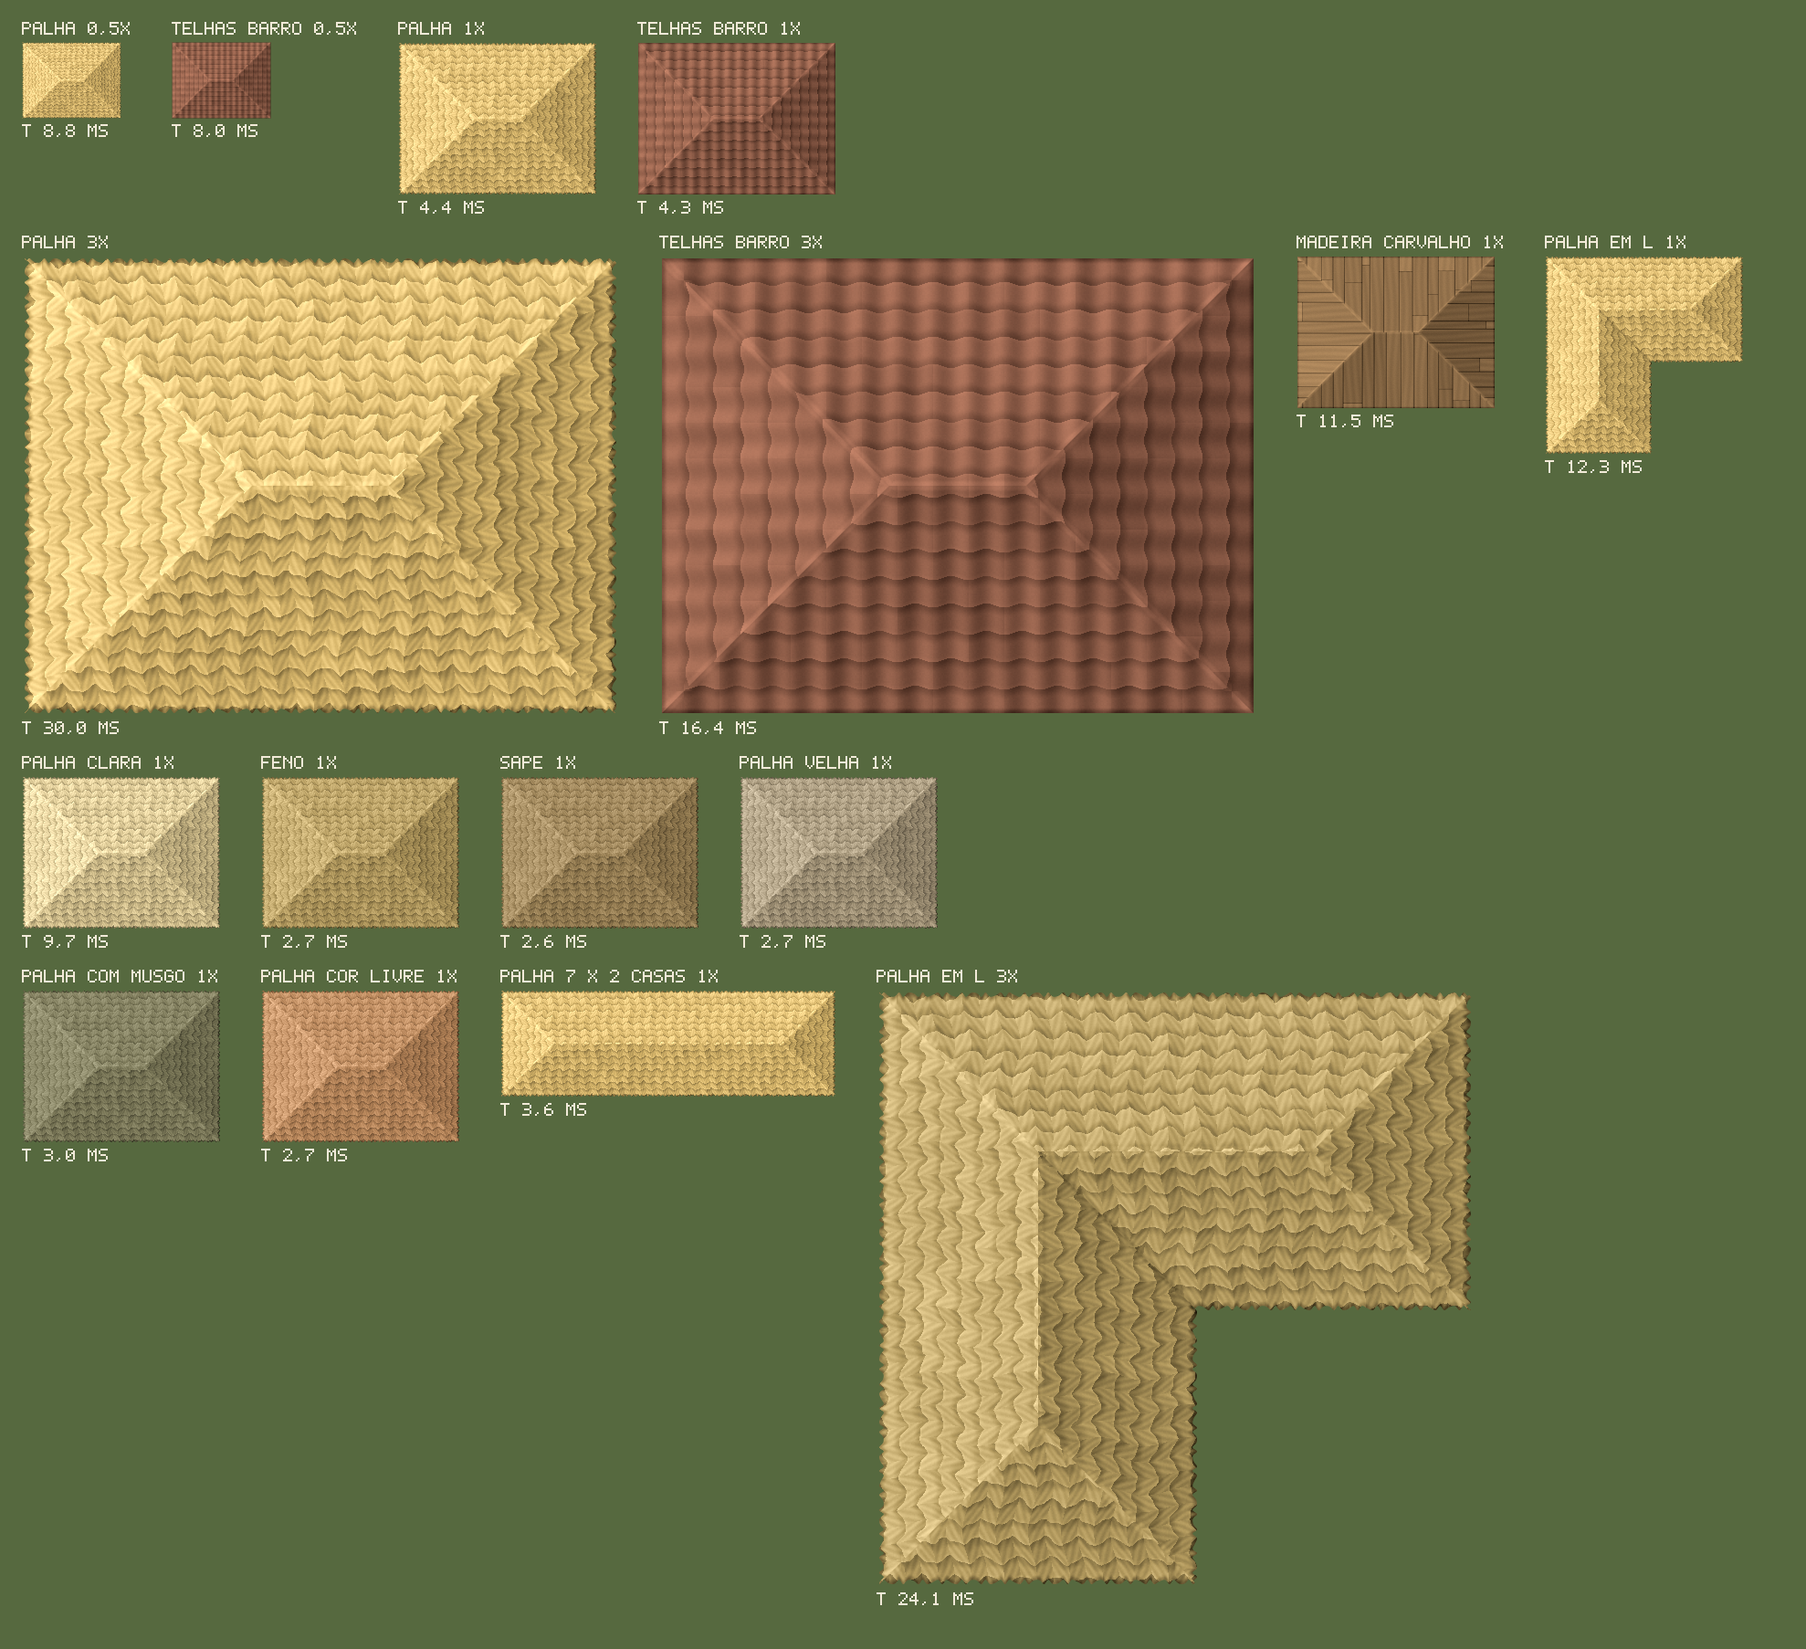
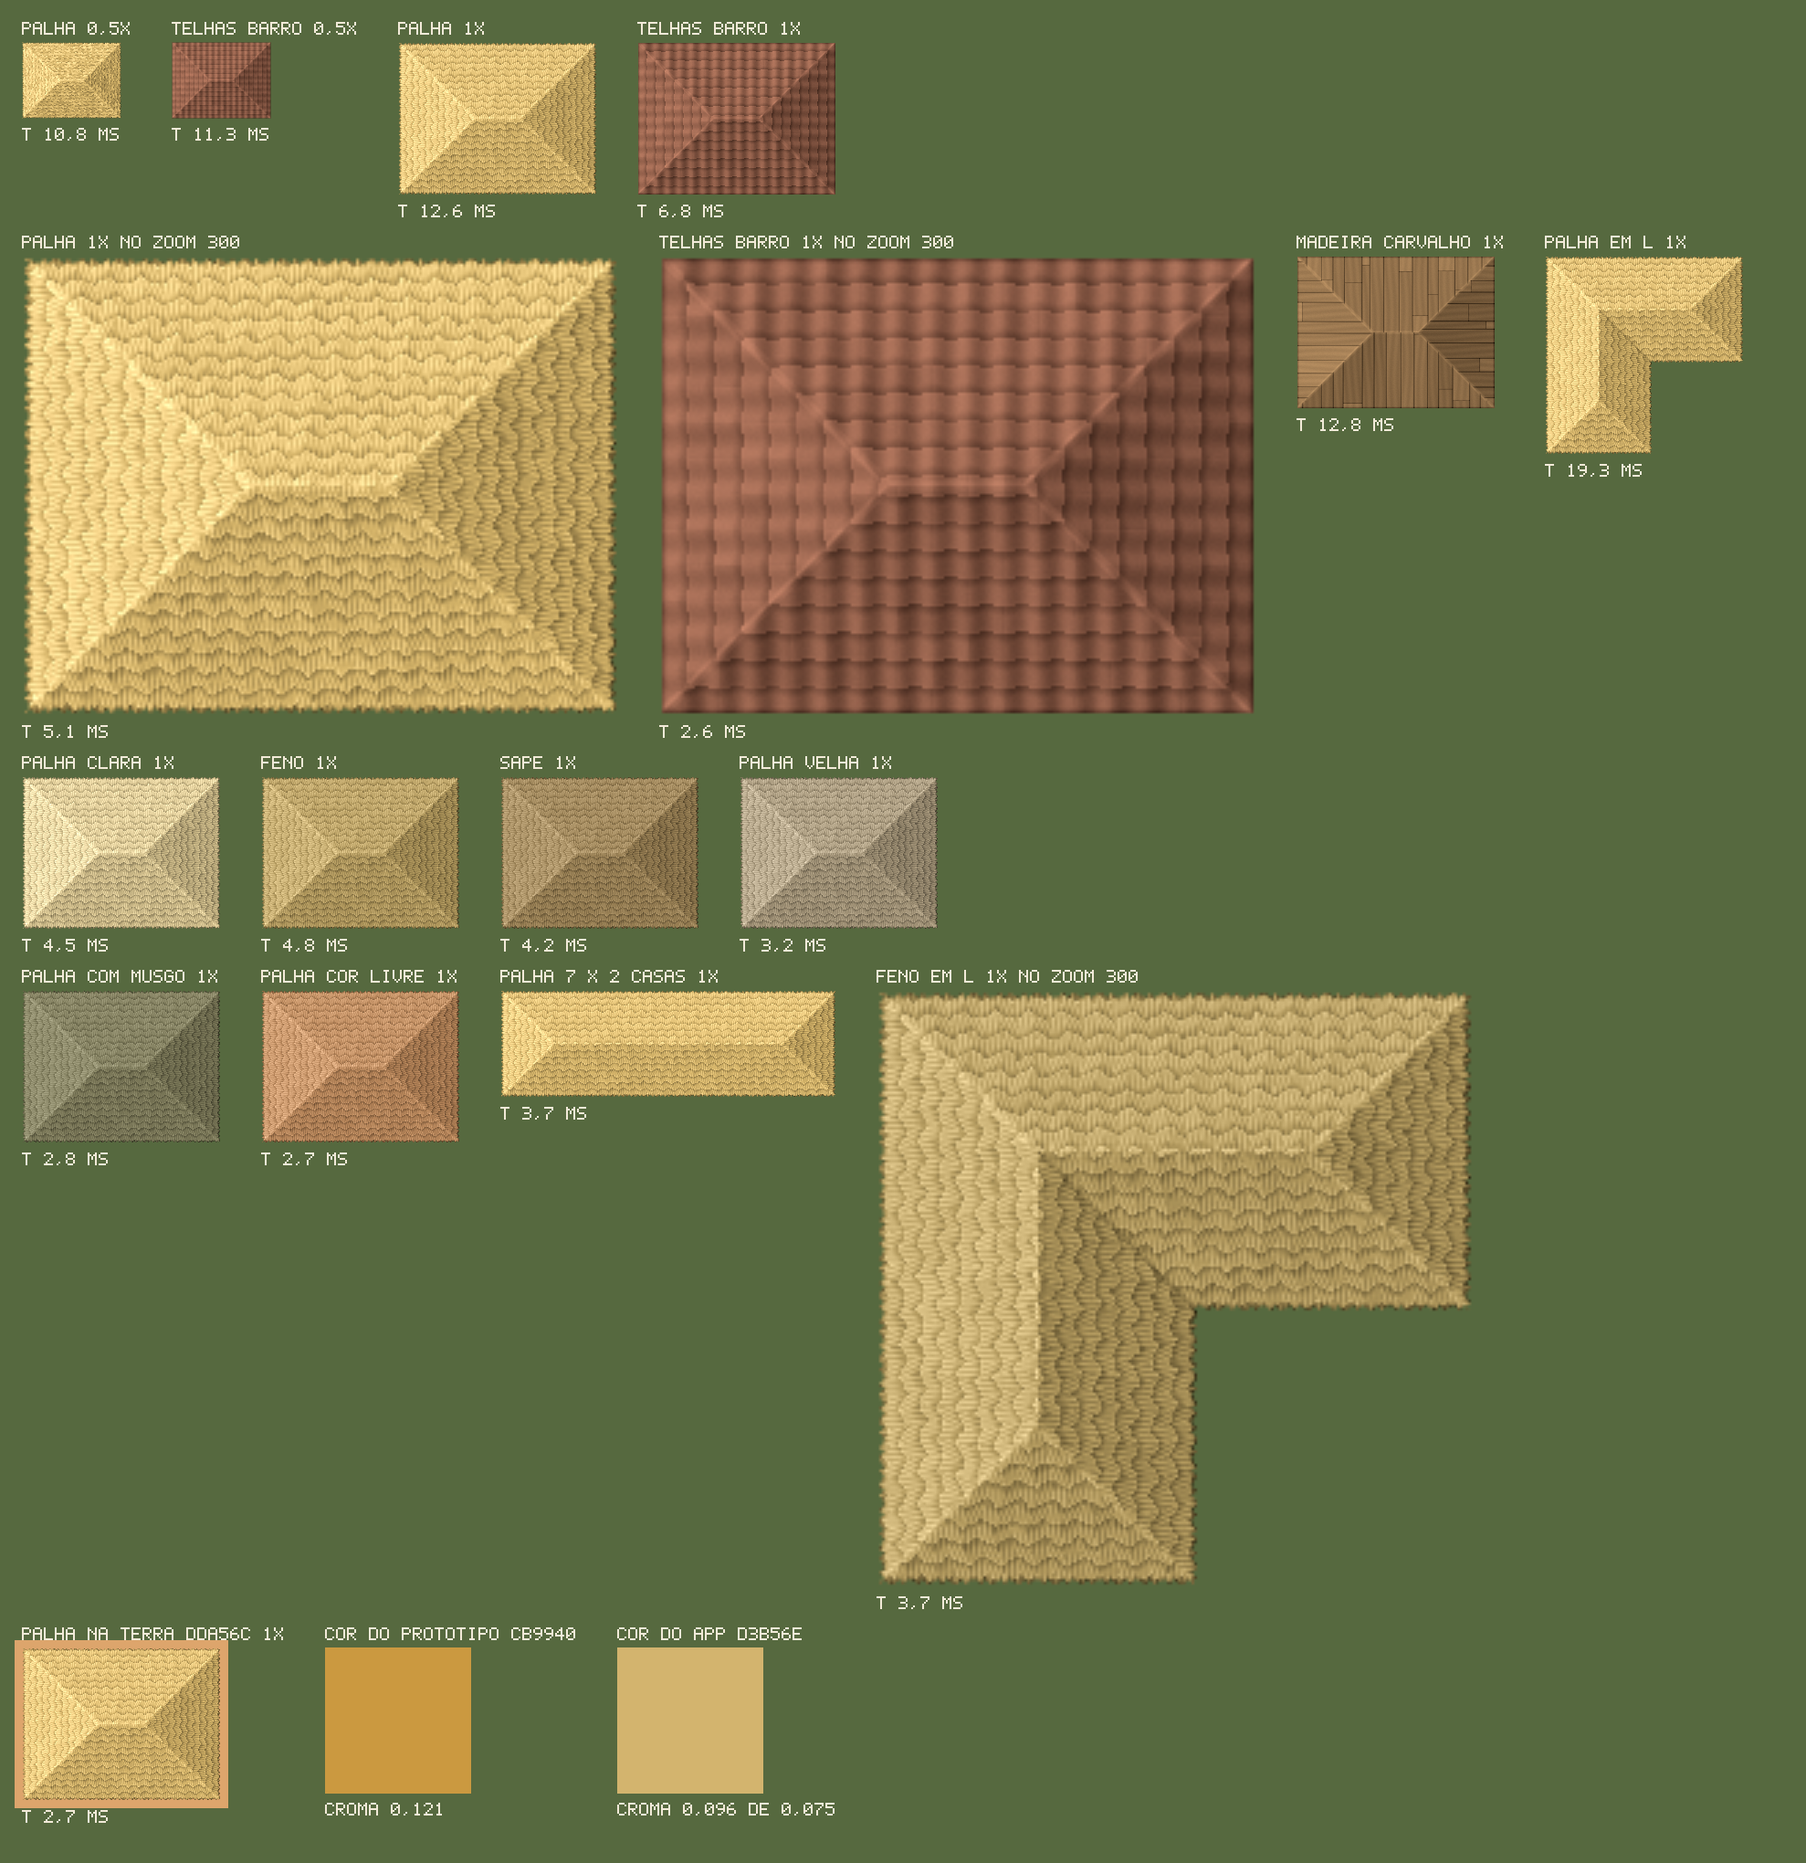
test(telhado): sweep thatch rooms above 1 M px; contact sheet with the 300% zoom and colour swatches
- The 1000-room sweep only drew rooms up to 10x8 cells (always 1x). 60 big
  rooms (1100-2200 x 950-1700 px) now go through the app scale below 1x
  (0.53x to <1x): worst saturation p95 0.526, chroma p95 0.1016.
- Contact sheet: the 3x frames (the app never paints a roof above 1x) are
  replaced by the 1x texture magnified 3 times with linear filtering, as the
  user sees it at 300% zoom; thatch on the Meio-Termo dirt floor; prototype
  vs app average colour side by side (chroma 0.121 vs 0.096, dE 0.075).

diff --git a/client/src/texturas/folhaDeContatoMt6.test.ts b/client/src/texturas/folhaDeContatoMt6.test.ts
@@ -2,17 +2,23 @@ import { writeFileSync } from 'node:fs'
 import { expect, it } from 'vitest'
 import type { PontoDoTelhado } from '../lib/telhado/aguas'
 import { PALETA_DO_TETO, type ModeloDoTeto } from '../lib/telhado/paletas'
-import { pintarTelhado } from './telhado'
-import { colar, emPng, escrever, novaTela } from './meioTermo/moveis/folhaDeContato.testkit'
+import { pintarTelhado, type ImagemDoTelhado } from './telhado'
+import { oklabDoHex, oklabDoRgb } from './meioTermo/materiais'
+import { PALETA_MEIO_TERMO } from './meioTermo/paleta'
+import { colar, emPng, escrever, novaTela, type Tela } from './meioTermo/moveis/folhaDeContato.testkit'
 
 /**
- * FOLHA DE CONTATO da fatia MT6: o telhado de palha em 3 escalas da textura
- * (0,5x, 1x e 3x pixels por px do mapa) AO LADO da telha barro na mesma
- * escala, a madeira para comparar, as 6 cores da palha, a sala em L, uma cor
- * livre e uma sala comprida. Fundo: a grama do mapa (#56693f), onde o telhado
- * mora. Embaixo de cada quadro, o tempo de pintar a imagem (ms, nesta máquina e
- * nesta rodada, uma medida só). O app pinta a textura a 1x (ou menos, em sala
- * enorme) e a câmera amplia; a 3x aqui é o detalhe que a imagem teria.
+ * FOLHA DE CONTATO da fatia MT6 (refeita na revisão de design): o telhado de
+ * palha a 0,5x e 1x AO LADO da telha barro na mesma escala, e a 1x AMPLIADA 3
+ * vezes como o usuário vê no zoom de 300% (o app nunca pinta telhado acima de
+ * 1x, `pixi/telhadosRenderer.ts`, `escalaDaTexturaDoTelhado`: a câmera amplia
+ * a imagem de 1x, com filtro linear; o quadro de "3x" que havia aqui mostrava
+ * um detalhe que ninguém vê). Mais a madeira, as 6 cores, a sala em L, a cor
+ * livre, a sala comprida, a palha no chão de TERRA do Meio-Termo (o par mais
+ * fraco) e, lado a lado, a cor média do protótipo aprovado e a do app, com o
+ * croma OKLab e a distância entre elas. Fundo: a grama do mapa (#56693f).
+ * Embaixo de cada quadro de telhado, o tempo de pintar a imagem (ms, nesta
+ * máquina e nesta rodada, uma medida só).
  * Grava `docs/design/objetos/provas/mt6-folha-de-contato.png`.
  *
  * Só roda quando pedida (prova para o usuário, não teste de regressão):
@@ -29,6 +35,18 @@ const ESCALA_DA_LETRA = 2
 const ALTURA_DA_LETRA = 7 * ESCALA_DA_LETRA + 8
 const POR_LINHA = 4
 const CASA = 50
+/** O zoom da câmera que o quadro imita (300%). */
+const ZOOM = 3
+/** Lado da amostra de cor (px). */
+const AMOSTRA = 160
+/**
+ * A palha do protótipo aprovado: a média de um miolo do estábulo sem cumeeira
+ * em `docs/design/vila-meio-termo/provas/desktop-1440.png` (recorte 1000,960
+ * de 200 x 60), medida na revisão de design da MT6. O protótipo pinta com o
+ * token `#d6b56a` (`vila-meio-termo/prototipo/meio.js:58` e `:88`); a
+ * diferença está no resultado.
+ */
+const PROTOTIPO = '#cb9940'
 
 function sala(casasW: number, casasH: number): readonly PontoDoTelhado[] {
   return [{ x: 0, y: 0 }, { x: casasW * CASA, y: 0 }, { x: casasW * CASA, y: casasH * CASA }, { x: 0, y: casasH * CASA }]
@@ -37,15 +55,28 @@ const EL: readonly PontoDoTelhado[] = [{ x: 0, y: 0 }, { x: 200, y: 0 }, { x: 20
 const CASA_4X3 = sala(4, 3)
 const COR = Object.fromEntries(PALETA_DO_TETO.palha.map((c) => [c.id, c.hex]))
 const BARRO = PALETA_DO_TETO.telhas[0].hex
+const rgbDe = (hex: string): [number, number, number] => [1, 3, 5].map((k) => Number.parseInt(hex.slice(k, k + 2), 16)) as [number, number, number]
+const TERRA = rgbDe(PALETA_MEIO_TERMO.terra.base)
+
+interface QuadroDeTelhado {
+  readonly rotulo: string
+  readonly poligono: readonly PontoDoTelhado[]
+  readonly modelo: ModeloDoTeto
+  readonly cor: string
+  /** Sempre 1x ou menos (o que o app pinta); `zoom` amplia como a câmera. */
+  readonly escala: number
+  readonly zoom?: number
+  readonly fundo?: readonly [number, number, number]
+}
 
 /** A fonte da folha só tem maiúsculas, dígitos, '+', ',' e '/'. */
-const QUADROS: readonly { rotulo: string; poligono: readonly PontoDoTelhado[]; modelo: ModeloDoTeto; cor: string; escala: number }[] = [
+const QUADROS: readonly QuadroDeTelhado[] = [
   { rotulo: 'PALHA 0,5X', poligono: CASA_4X3, modelo: 'palha', cor: COR.palha, escala: 0.5 },
   { rotulo: 'TELHAS BARRO 0,5X', poligono: CASA_4X3, modelo: 'telhas', cor: BARRO, escala: 0.5 },
   { rotulo: 'PALHA 1X', poligono: CASA_4X3, modelo: 'palha', cor: COR.palha, escala: 1 },
   { rotulo: 'TELHAS BARRO 1X', poligono: CASA_4X3, modelo: 'telhas', cor: BARRO, escala: 1 },
-  { rotulo: 'PALHA 3X', poligono: CASA_4X3, modelo: 'palha', cor: COR.palha, escala: 3 },
-  { rotulo: 'TELHAS BARRO 3X', poligono: CASA_4X3, modelo: 'telhas', cor: BARRO, escala: 3 },
+  { rotulo: 'PALHA 1X NO ZOOM 300', poligono: CASA_4X3, modelo: 'palha', cor: COR.palha, escala: 1, zoom: ZOOM },
+  { rotulo: 'TELHAS BARRO 1X NO ZOOM 300', poligono: CASA_4X3, modelo: 'telhas', cor: BARRO, escala: 1, zoom: ZOOM },
   { rotulo: 'MADEIRA CARVALHO 1X', poligono: CASA_4X3, modelo: 'madeira', cor: PALETA_DO_TETO.madeira[0].hex, escala: 1 },
   { rotulo: 'PALHA EM L 1X', poligono: EL, modelo: 'palha', cor: COR.palha, escala: 1 },
   { rotulo: 'PALHA CLARA 1X', poligono: CASA_4X3, modelo: 'palha', cor: COR['palha-clara'], escala: 1 },
@@ -55,20 +86,107 @@ const QUADROS: readonly { rotulo: string; poligono: readonly PontoDoTelhado[]; m
   { rotulo: 'PALHA COM MUSGO 1X', poligono: CASA_4X3, modelo: 'palha', cor: COR.musgo, escala: 1 },
   { rotulo: 'PALHA COR LIVRE 1X', poligono: CASA_4X3, modelo: 'palha', cor: '#b8865a', escala: 1 },
   { rotulo: 'PALHA 7 X 2 CASAS 1X', poligono: sala(7, 2), modelo: 'palha', cor: COR.palha, escala: 1 },
-  { rotulo: 'PALHA EM L 3X', poligono: EL, modelo: 'palha', cor: COR.feno, escala: 3 },
+  { rotulo: 'FENO EM L 1X NO ZOOM 300', poligono: EL, modelo: 'palha', cor: COR.feno, escala: 1, zoom: ZOOM },
+  { rotulo: 'PALHA NA TERRA DDA56C 1X', poligono: CASA_4X3, modelo: 'palha', cor: COR.palha, escala: 1, fundo: TERRA },
 ]
 
 function emMs(ms: number): string {
   return ms.toFixed(1).replace('.', ',')
 }
+const virgula = (x: number, casas: number): string => x.toFixed(casas).replace('.', ',')
+const hexDe = (c: readonly number[]): string => c.map((v) => Math.round(v).toString(16).padStart(2, '0')).join('')
+const croma = (lab: readonly number[]): number => Math.hypot(lab[1], lab[2])
+const distancia = (a: readonly number[], b: readonly number[]): number => Math.hypot(a[0] - b[0], a[1] - b[1], a[2] - b[2])
+const linear = (c: number): number => {
+  const x = c / 255
+  return x <= 0.04045 ? x / 12.92 : ((x + 0.055) / 1.055) ** 2.4
+}
+const luminancia = (c: readonly number[]): number => 0.2126 * linear(c[0]) + 0.7152 * linear(c[1]) + 0.0722 * linear(c[2])
 
-it.skipIf(!PEDIDA)('gera a folha de contato da palha (16 quadros, 3 escalas, ao lado das telhas) com o tempo embaixo', () => {
-  const quadros = QUADROS.map((q) => {
+/** Média RGB dos pixels cheios (alfa 255) da imagem. */
+function mediaDosCheios(img: ImagemDoTelhado): [number, number, number] {
+  const s = [0, 0, 0]
+  let n = 0
+  for (let i = 0; i < img.pixels.length; i += 4) {
+    if (img.pixels[i + 3] < 255) continue
+    for (let k = 0; k < 3; k += 1) s[k] += img.pixels[i + k]
+    n += 1
+  }
+  return [s[0] / n, s[1] / n, s[2] / n]
+}
+
+/** Amplia `z` vezes com filtro linear (pré-multiplicado), como a câmera faz com a textura. */
+function ampliar(img: ImagemDoTelhado, z: number): { pixels: Uint8ClampedArray; largura: number; altura: number } {
+  const W = img.largura
+  const H = img.altura
+  const largura = W * z
+  const altura = H * z
+  const pixels = new Uint8ClampedArray(largura * altura * 4)
+  const px = img.pixels
+  const amostra = (x: number, y: number, k: number): number => {
+    const o = (Math.min(H - 1, Math.max(0, y)) * W + Math.min(W - 1, Math.max(0, x))) * 4
+    return k === 3 ? px[o + 3] : (px[o + k] * px[o + 3]) / 255
+  }
+  for (let y = 0; y < altura; y += 1) {
+    const sy = (y + 0.5) / z - 0.5
+    const y0 = Math.floor(sy)
+    const fy = sy - y0
+    for (let x = 0; x < largura; x += 1) {
+      const sx = (x + 0.5) / z - 0.5
+      const x0 = Math.floor(sx)
+      const fx = sx - x0
+      const o = (y * largura + x) * 4
+      const v = [0, 0, 0, 0]
+      for (let k = 0; k < 4; k += 1) {
+        const cima = amostra(x0, y0, k) * (1 - fx) + amostra(x0 + 1, y0, k) * fx
+        const baixo = amostra(x0, y0 + 1, k) * (1 - fx) + amostra(x0 + 1, y0 + 1, k) * fx
+        v[k] = cima * (1 - fy) + baixo * fy
+      }
+      pixels[o + 3] = v[3]
+      for (let k = 0; k < 3; k += 1) pixels[o + k] = v[3] > 0 ? (v[k] * 255) / v[3] : 0
+    }
+  }
+  return { pixels, largura, altura }
+}
+
+function retangulo(tela: Tela, x: number, y: number, w: number, h: number, cor: readonly number[]): void {
+  for (let j = y; j < y + h; j += 1) {
+    for (let i = x; i < x + w; i += 1) {
+      const o = (j * tela.largura + i) * 3
+      tela.rgb[o] = cor[0]
+      tela.rgb[o + 1] = cor[1]
+      tela.rgb[o + 2] = cor[2]
+    }
+  }
+}
+
+it.skipIf(!PEDIDA)('gera a folha de contato da palha (17 quadros e 2 amostras de cor, com o zoom de 300%) com o tempo embaixo', () => {
+  const telhados = QUADROS.map((q) => {
     const t0 = performance.now()
     const img = pintarTelhado(q.poligono, q.modelo, q.cor, q.escala)
-    return { ...q, img, tempo: `T ${emMs(performance.now() - t0)} MS` }
+    const tempo = `T ${emMs(performance.now() - t0)} MS`
+    const visto = q.zoom === undefined ? { pixels: img.pixels, largura: img.largura, altura: img.altura } : ampliar(img, q.zoom)
+    return { rotulo: q.rotulo, img: visto, legenda: tempo, fundo: q.fundo, cor: null as readonly number[] | null }
   })
-  const larguraDe = (q: (typeof quadros)[number]): number => Math.max(q.img.largura, q.rotulo.length * 6 * ESCALA_DA_LETRA, q.tempo.length * 6 * ESCALA_DA_LETRA)
+  // A cor média do app (palha padrão a 1x) contra a do protótipo e contra o chão de terra da MT7.
+  const app = mediaDosCheios(pintarTelhado(CASA_4X3, 'palha', COR.palha, 1))
+  const labApp = oklabDoRgb(app[0], app[1], app[2])
+  const labProto = oklabDoHex(PROTOTIPO)
+  const deltaProto = distancia(labApp, labProto)
+  const deltaTerra = distancia(labApp, oklabDoRgb(TERRA[0], TERRA[1], TERRA[2]))
+  const [la, lt] = [luminancia(app), luminancia(TERRA)]
+  const luzContraTerra = (Math.max(la, lt) + 0.05) / (Math.min(la, lt) + 0.05)
+  const medidas =
+    `app ${hexDe(app)} croma ${croma(labApp).toFixed(3)}; protótipo ${PROTOTIPO} croma ${croma(labProto).toFixed(3)}; ΔE OKLab ${deltaProto.toFixed(3)}; ` +
+    `contra a terra ${PALETA_MEIO_TERMO.terra.base}: ΔE ${deltaTerra.toFixed(3)}, luz ${luzContraTerra.toFixed(2)}:1`
+  console.log(`[medida] folha MT6: ${medidas}`)
+  const amostra = (rotulo: string, cor: readonly number[], legenda: string) => ({ rotulo, img: { pixels: new Uint8ClampedArray(0), largura: AMOSTRA, altura: AMOSTRA }, legenda, fundo: undefined, cor })
+  const quadros = [
+    ...telhados,
+    amostra(`COR DO PROTOTIPO ${PROTOTIPO.slice(1).toUpperCase()}`, rgbDe(PROTOTIPO), `CROMA ${virgula(croma(labProto), 3)}`),
+    amostra(`COR DO APP ${hexDe(app).toUpperCase()}`, app, `CROMA ${virgula(croma(labApp), 3)} DE ${virgula(deltaProto, 3)}`),
+  ]
+  const larguraDe = (q: (typeof quadros)[number]): number => Math.max(q.img.largura, q.rotulo.length * 6 * ESCALA_DA_LETRA, q.legenda.length * 6 * ESCALA_DA_LETRA)
   const alturaDe = (q: (typeof quadros)[number]): number => q.img.altura + ALTURA_DA_LETRA * 2 + VAO
   const linhas: (typeof quadros)[] = []
   for (let i = 0; i < quadros.length; i += POR_LINHA) linhas.push(quadros.slice(i, i + POR_LINHA))
@@ -80,14 +198,16 @@ it.skipIf(!PEDIDA)('gera a folha de contato da palha (16 quadros, 3 escalas, ao 
     let x = MARGEM
     for (const q of linha) {
       escrever(tela, q.rotulo, x, y, ESCALA_DA_LETRA, TINTA)
-      colar(tela, q.img.pixels, q.img.largura, q.img.altura, x, y + ALTURA_DA_LETRA)
-      escrever(tela, q.tempo, x, y + ALTURA_DA_LETRA + q.img.altura + 6, ESCALA_DA_LETRA, TINTA)
+      if (q.fundo !== undefined) retangulo(tela, x - 8, y + ALTURA_DA_LETRA - 8, q.img.largura + 16, q.img.altura + 16, q.fundo)
+      if (q.cor !== null) retangulo(tela, x, y + ALTURA_DA_LETRA, q.img.largura, q.img.altura, q.cor)
+      else colar(tela, q.img.pixels, q.img.largura, q.img.altura, x, y + ALTURA_DA_LETRA)
+      escrever(tela, q.legenda, x, y + ALTURA_DA_LETRA + q.img.altura + 10, ESCALA_DA_LETRA, TINTA)
       x += larguraDe(q) + VAO * 2
     }
     y += Math.max(...linha.map(alturaDe))
   }
   const png = emPng(tela)
   writeFileSync(DESTINO, png)
-  expect(quadros).toHaveLength(16)
+  expect(quadros).toHaveLength(19)
   expect(png.length).toBeGreaterThan(0)
 })

diff --git a/client/src/texturas/telhadoPalha.sementes.test.ts b/client/src/texturas/telhadoPalha.sementes.test.ts
@@ -76,3 +76,39 @@ it('1000 salas de palha, na escala do app e a 3x: todas no alvo de cor do estilo
   )
   expect(falhas.slice(0, 10)).toEqual([])
 })
+
+/** Salas grandes (1100 a 2200 por 950 a 1700 px, na grade): passam de 1 milhão de pixels e o app pinta abaixo de 1x. */
+function salaGrandeSorteada(i: number): readonly PontoDoTelhado[] {
+  const r = sorteador(51_001 + i)
+  const g = [40, 50, 64, 70][Math.floor(r() * 4)]
+  const x0 = Math.floor(r() * 40) * g
+  const y0 = Math.floor(r() * 40) * g
+  const w = Math.ceil((1100 + r() * 1100) / g) * g
+  const h = Math.ceil((950 + r() * 750) / g) * g
+  return [{ x: x0, y: y0 }, { x: x0 + w, y: y0 }, { x: x0 + w, y: y0 + h }, { x: x0, y: y0 + h }]
+}
+
+const SALAS_GRANDES = 60
+
+it(`${SALAS_GRANDES} salas grandes de palha, na escala do app ABAIXO de 1x (V de ~6 px, fio de ~1 px, serrilhado): no alvo de cor`, { timeout: 600_000 }, () => {
+  const falhas: string[] = []
+  const pior = { saturacao: 0, croma: 0, acimaDaCor: -Infinity, menorEscala: Infinity }
+  for (let i = 0; i < SALAS_GRANDES; i += 1) {
+    const sala = salaGrandeSorteada(i)
+    const cor = PALETA_DO_TETO.palha[i % 6].hex
+    const escala = escalaDaTexturaDoTelhado(sala)
+    expect(escala, `sala grande ${i}`).toBeLessThan(1)
+    pior.menorEscala = Math.min(pior.menorEscala, escala)
+    const m = medirCorDoTelhado(pintarTelhado(sala, 'palha', cor, escala))
+    pior.saturacao = Math.max(pior.saturacao, m.saturacaoP95)
+    pior.croma = Math.max(pior.croma, m.cromaP95)
+    pior.acimaDaCor = Math.max(pior.acimaDaCor, m.cromaMedio - croma(oklabDoHex(cor)))
+    const f = falhasDaCor(m, cor)
+    if (f.length > 0) falhas.push(`sala grande ${i} (${cor}, ${escala.toFixed(2)}x): ${f.join(', ')}`)
+  }
+  console.log(
+    `[medida] ${SALAS_GRANDES} salas grandes (escala de ${pior.menorEscala.toFixed(2)}x a menos de 1x): pior saturação p95 ${pior.saturacao.toFixed(3)}, ` +
+      `pior croma p95 ${pior.croma.toFixed(4)}, pior croma médio acima da cor ${pior.acimaDaCor.toFixed(4)}`,
+  )
+  expect(falhas.slice(0, 10)).toEqual([])
+})
